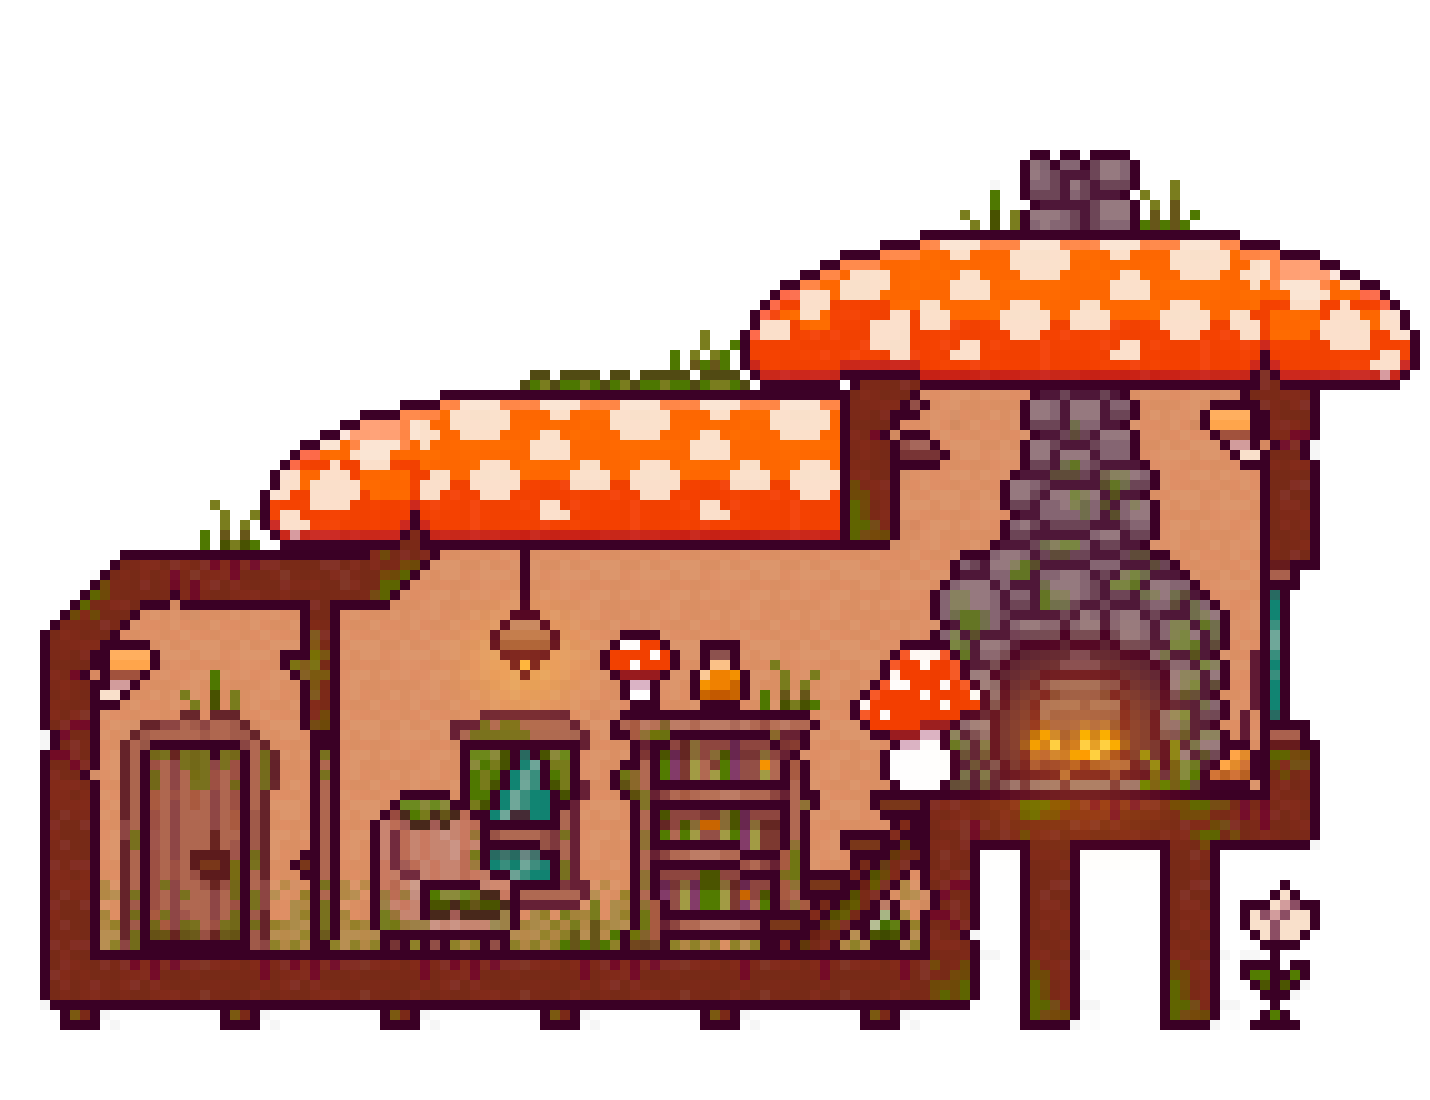
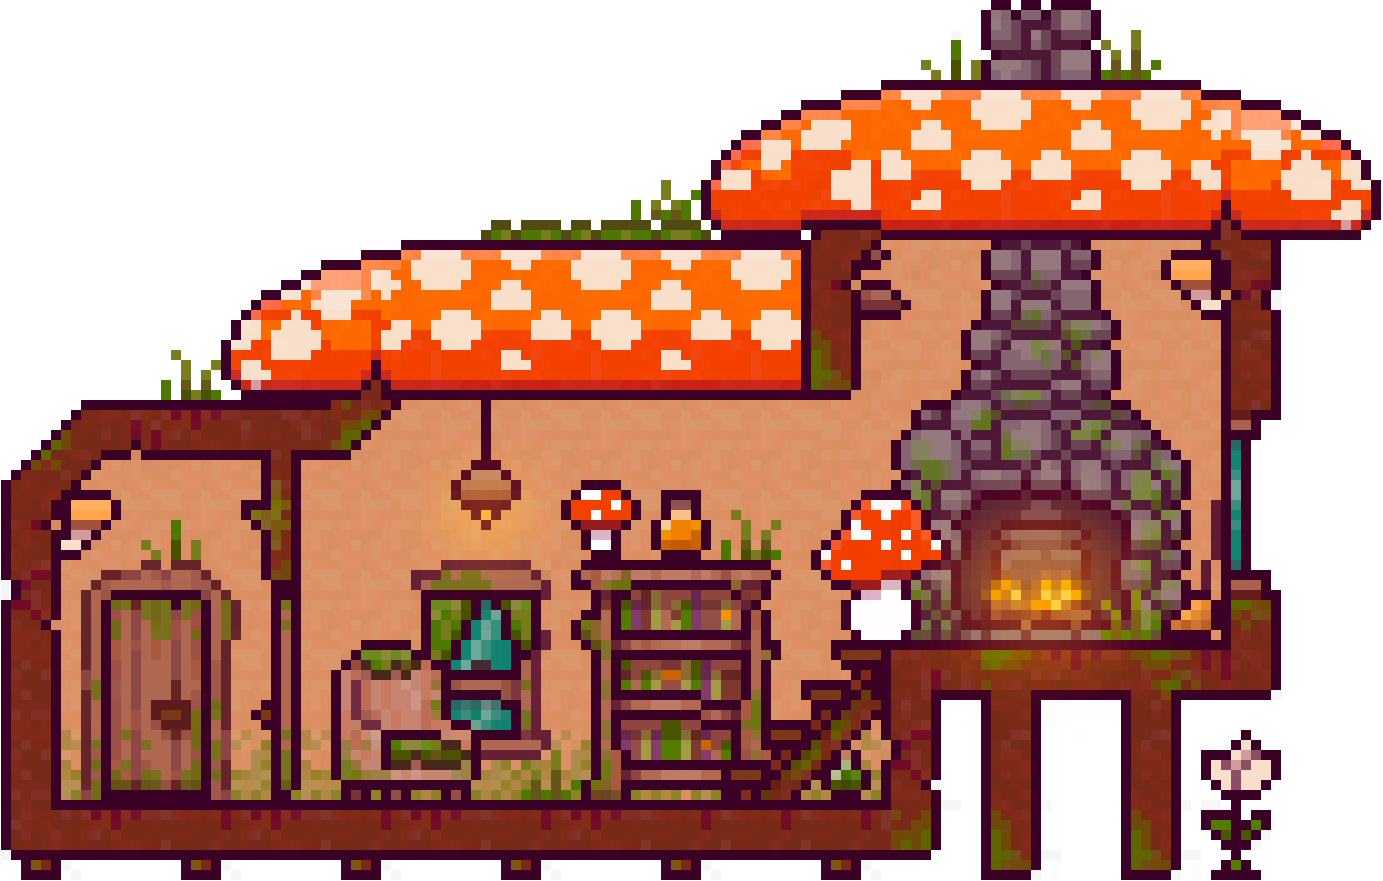
Implemented basic question text and added more css styling

diff --git a/src/basicQuestions.ts b/src/basicQuestions.ts
@@ -1,0 +1,18 @@
+export const questions = [
+"You are a spider getting ready to go outside today, which of these choices is the most important for you to bring?", 
+"Why do you feel you are going outside today?",
+"On your walk you notice that the bridge you must use to get over the raging stream is broken. How do you proceed?",
+"A strong gust of wind knocked you into the raging stream, you must act quickly so that you are not carried away by the stream. Which do you think is the best way to act in this situation?",
+"After making it safely to shore, you notice a spider who also tried to cross the stream and has broken its leg. The spider is currently in a massive state of distress. How do you choose to assist this spider?",
+"After you finish helping the spider with his wounds and begin the journey to help him back home safely. You look back and see the broken bridge. What steps do you think you could take to prevent this from happening again?",
+"Once you arrive back home after helping the injured spider back to his home safely. How do you choose to relax after this eventful day?"]
+
+export const answers = [
+    ["Umbrella", "First aid kit", "Notebook", "Calculator"],
+    ["Going on a walk clears my mind", "I am meeting with my arachnid friends", "I am on my way to my current class/job", "You are curious what you will see on this walk"],
+    ["Take your silk and weave it in a way so that it connects the 2 broken parts of the bridge", "Take your silk and try to swing over from one side of the bridge to the other", "Wait and see if any other spiders arrive so you can work together to come to a solution", "Look around to see if there are any materials you can use to make a raft to get across"],
+    ["Attempt to swim along the current, hoping it will take you to the shore", "Look around and see if there is anything floating that you can grab onto", "Use your silk to try and grapple to the shore and pull yourself in"],
+    ["Attempt to make the spider as comfortable as possible and calm him down until help arrives", "Go out and search for someone else to go and help this spider", "Attempt to create a splint out of silk to hold the spider’s broken leg in place"],
+    ["Apply to a job where you’re responsible for bridge maintenance", "Volunteer to assist in the rebuilding of the bridge", "Spread the word about what has happened so everyone knows to take a safer route", "Create a boat company to ferry other insects across"],
+    ["See if any of your friends are available to go out tonight", "Cook yourself a nice meal", "Think about ways to make the new bridge better", "Watch your favorite TV show"]
+]

diff --git a/src/Background.tsx b/src/Background.tsx
@@ -2,6 +2,8 @@ import React, { useState } from 'react';
 import './Background.css';
 import { Button, Form } from 'react-bootstrap';
 import { MultipleChoice } from './MultipleChoice';
+import { questions } from './basicQuestions';
+import { answers } from './basicQuestions';
 
 import forest from "./assets/images/backgrounds/forest.png"
 import insideHouse from "./assets/images/backgrounds/insideHouse.png"
@@ -22,9 +24,9 @@ export function Background({quizType}: {quizType: string}): JSX.Element{
 
     return(
         <div>
-            <MultipleChoice question={"Question"} answers={["Answer 1aaaaaaaaaaaaaaa aaaaaaaaaaaaa aaaaaaaaaaaaa aaaaaaaaa aaaaa", "Answer 2", "Answer 3", "Answer 4"]}></MultipleChoice>
+            {quizType === "basic" ? <MultipleChoice question={questions[pageNumber - 1]} answers={answers[pageNumber - 1]}></MultipleChoice> : <div>Detailed</div>}
             <ChangePage pageNumber={pageNumber} changePageNumber={changePageNumber}></ChangePage>
-            {pageNumber}
+            {/*pageNumber*/}
             <img src = {backgrounds[pageNumber - 1]} alt = {"Background image"} className="Background-Image"></img>
             
         </div>
@@ -34,10 +36,10 @@ export function Background({quizType}: {quizType: string}): JSX.Element{
 export function ChangePage({pageNumber, changePageNumber}: changePageProps): JSX.Element{
     return(
         <div>
-            <Button onClick = {() => pageNumber > 1 ? changePageNumber(pageNumber - 1) : ""}>
+            <Button className="Back-Button" onClick={() => pageNumber > 1 ? changePageNumber(pageNumber - 1) : ""}>
                 {"< Back"}
             </Button>
-            <Button onClick = {() => pageNumber < 7 ? changePageNumber(pageNumber + 1) : ""}>
+            <Button className="Next-Button" onClick={() => pageNumber < 7 ? changePageNumber(pageNumber + 1) : ""}>
                 {"Next >"}
             </Button>
         </div>

diff --git a/src/MultipleChoice.css b/src/MultipleChoice.css
@@ -1,12 +1,17 @@
 .Multiple-Choice-Question{
-    width: 10%; 
+    width: auto; 
     height: auto;
-    margin-Left: 45%;
-    margin-Top: 25%;
-    max-Width: 10%;
+    margin-Top: 10%;
+    max-Width: 40%;
+    border: 2px solid;
+    border-color: darkgreen;
+    border-radius: 25px;
+    
+    margin-left:50%;
+    transform: translate(-50%, 0%);
     
     position: absolute;
     
-    opacity: .75;
+    opacity: .9;
     background-Color: turquoise;
 }

diff --git a/src/Background.css b/src/Background.css
@@ -1,8 +1,16 @@
 .Background-Image{
-    width: 90%;
-    height: 90%;
-    margin-top: 5%;
-    
-    
+    width: 100%;
+    height: 100%;
+}
 
+.Back-Button{
+    left: 10%;
+    top: 5%;
+    position: absolute;
+}
+
+.Next-Button{
+    left: 90%;
+    top: 5%;
+    position: absolute;
 }
